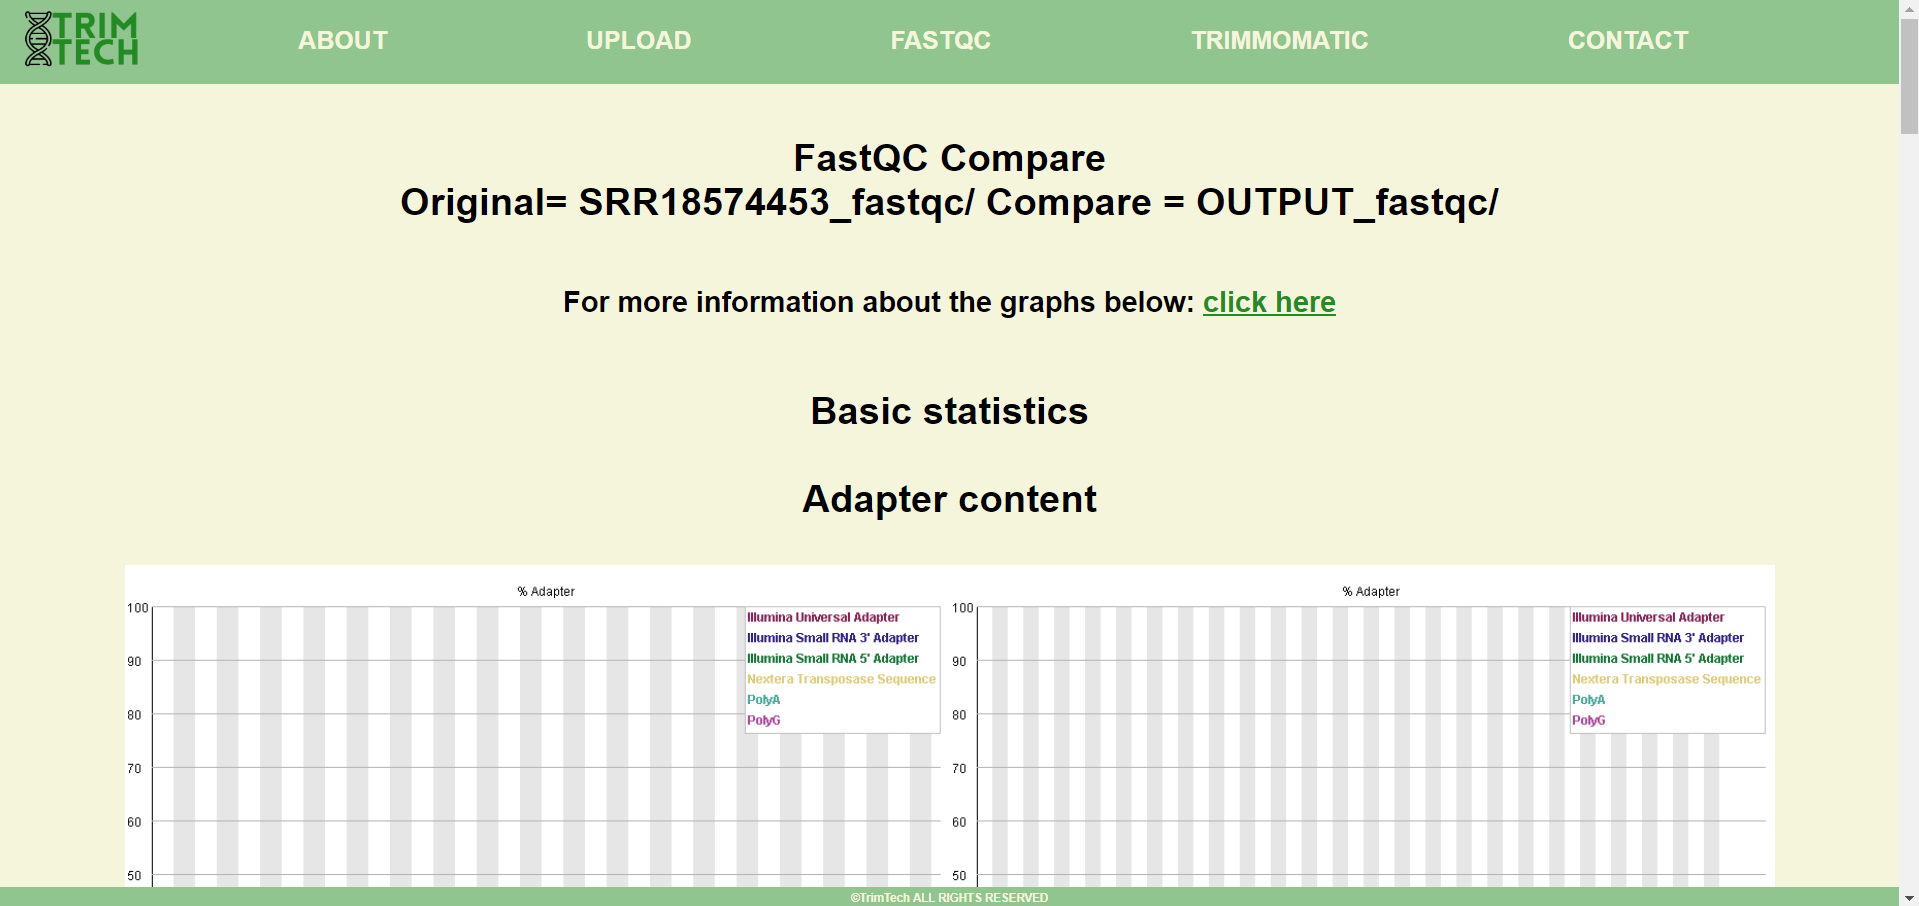
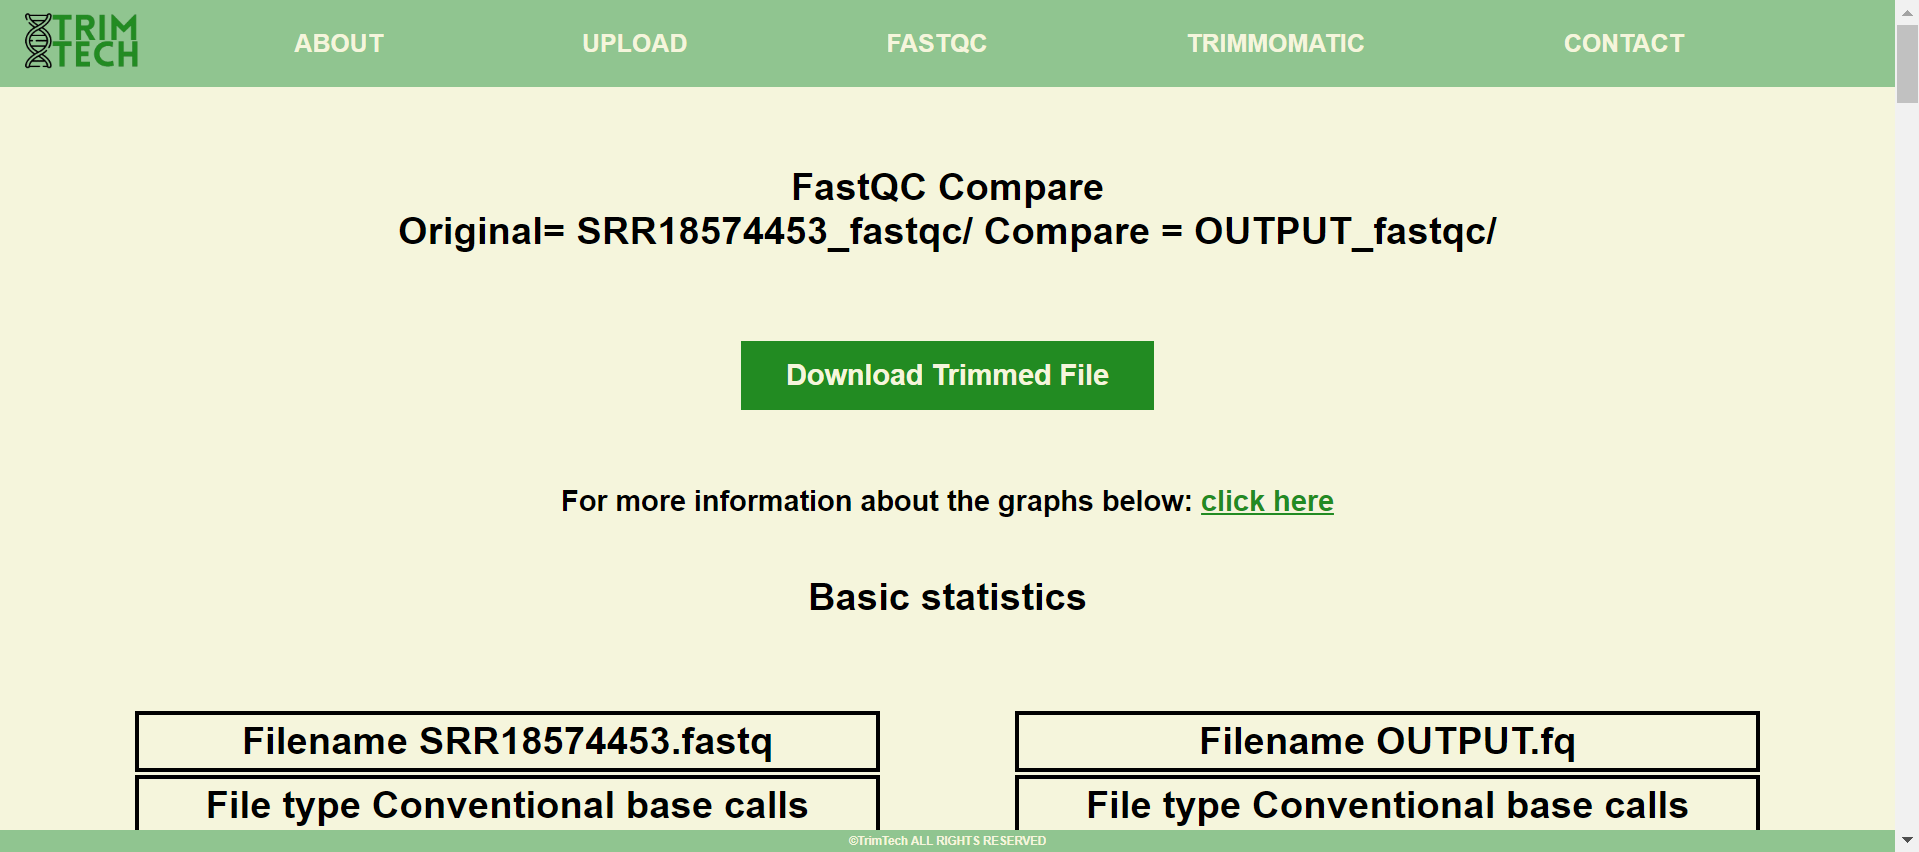
fixed old sc RM

diff --git a/templates/options_page.html b/templates/options_page.html
@@ -28,8 +28,8 @@
         <label class="options" for="sliding" id="sliding_title">SLIDINGSHOW</label></br>
         <input class="options" type="text" id="sliding" name="sliding" placeholder="4:15"></br>
         <p class="options">SLIDINGWINDOW: cuts if the average quality within the window is below a 
-            threshold (SLIDINGWINDOW:4:15) The first argument is the size of the window. 
-            The argument is the threshold quality.</p>
+            threshold. The first argument is the size of the window. 
+            The second argument is the threshold quality.</p>
         </br>
         <input class="options" type="Submit" id="start_trim" value="START">
     </form>

diff --git a/main.py b/main.py
@@ -240,6 +240,6 @@ def download_file():
     file_path = os.getcwd() + "/trimmomatic_output/OUTPUT.fq"
     return send_file(
         file_path,
-        download_name=session["filename"],
+        download_name="trimmed-" + session["filename"],
         as_attachment=True
     )

diff --git a/README.md b/README.md
@@ -70,7 +70,7 @@ ___
 ### **Comparepage**
 
 ![Comparepage data quality pre and post-trimming](static/GUI_pictures/trimtech_compare_page.png)
-#### The comparepage displays the quality of the uploaded FASTQ file pre and post-trimming.
+#### The comparepage displays the quality of the uploaded FASTQ file pre and post-trimming. The user can download the trimmed FASTQ file by clicking on the "Download Trimmomatic File" button. 
 
 
 ### **FASTQC**
